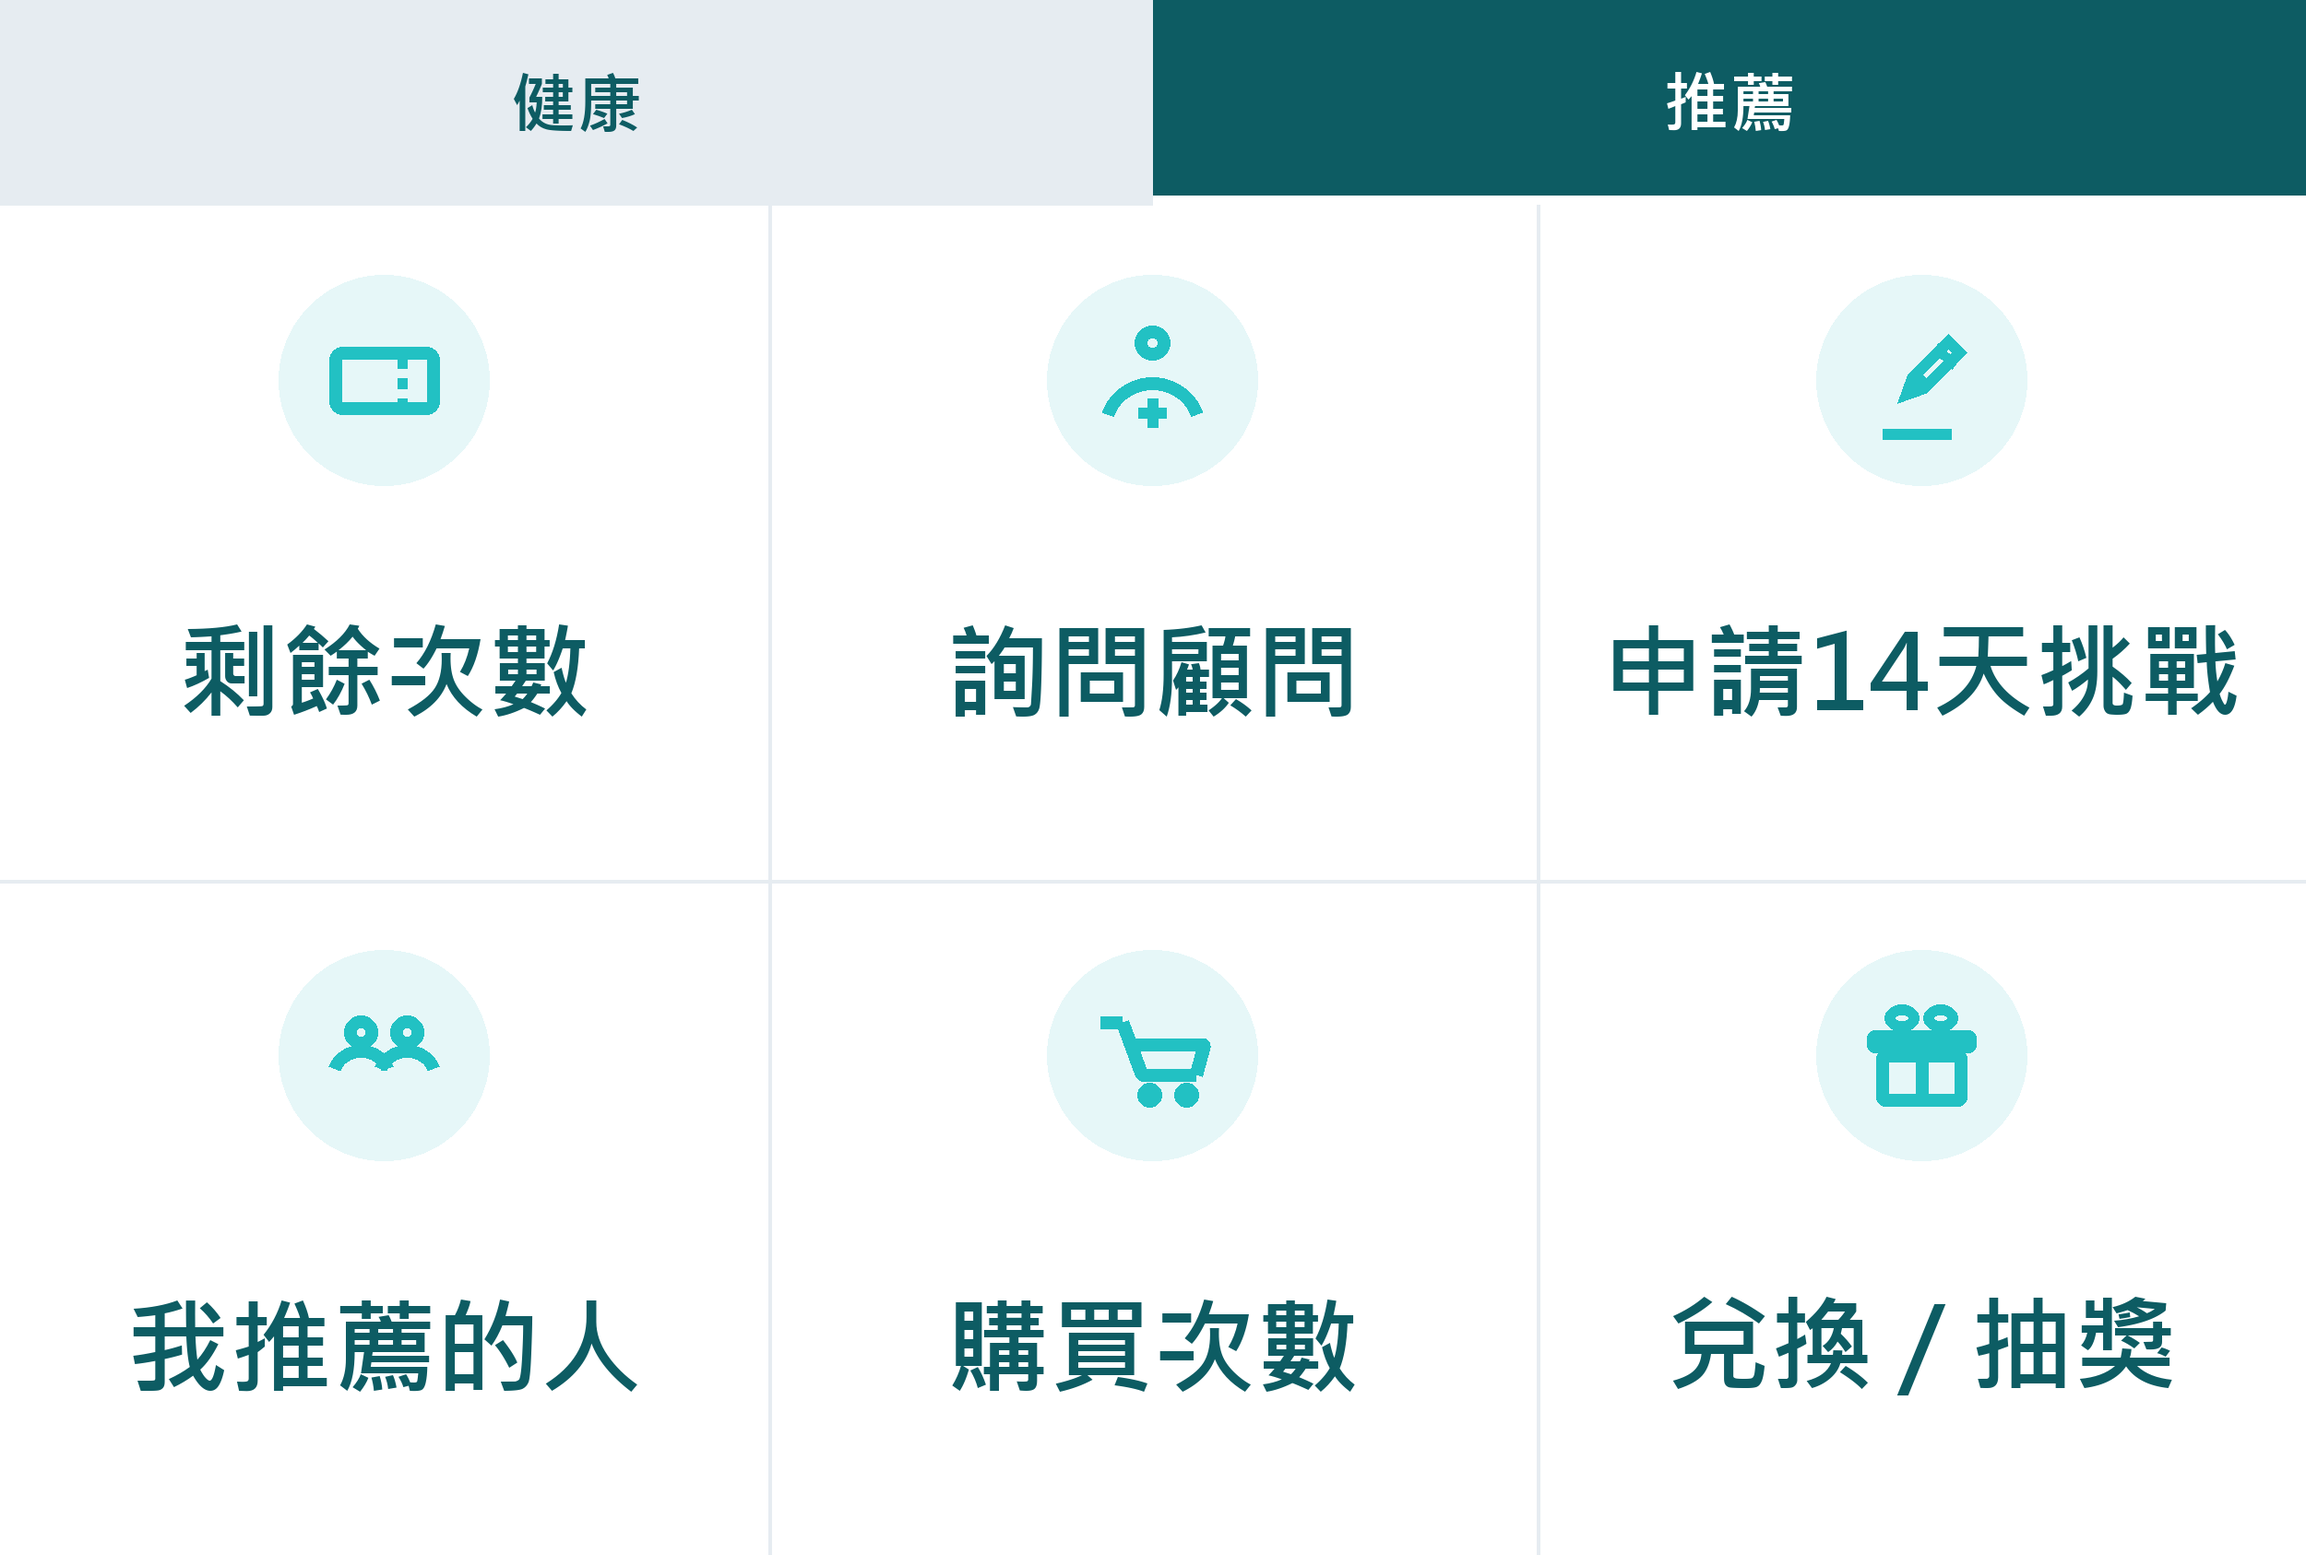
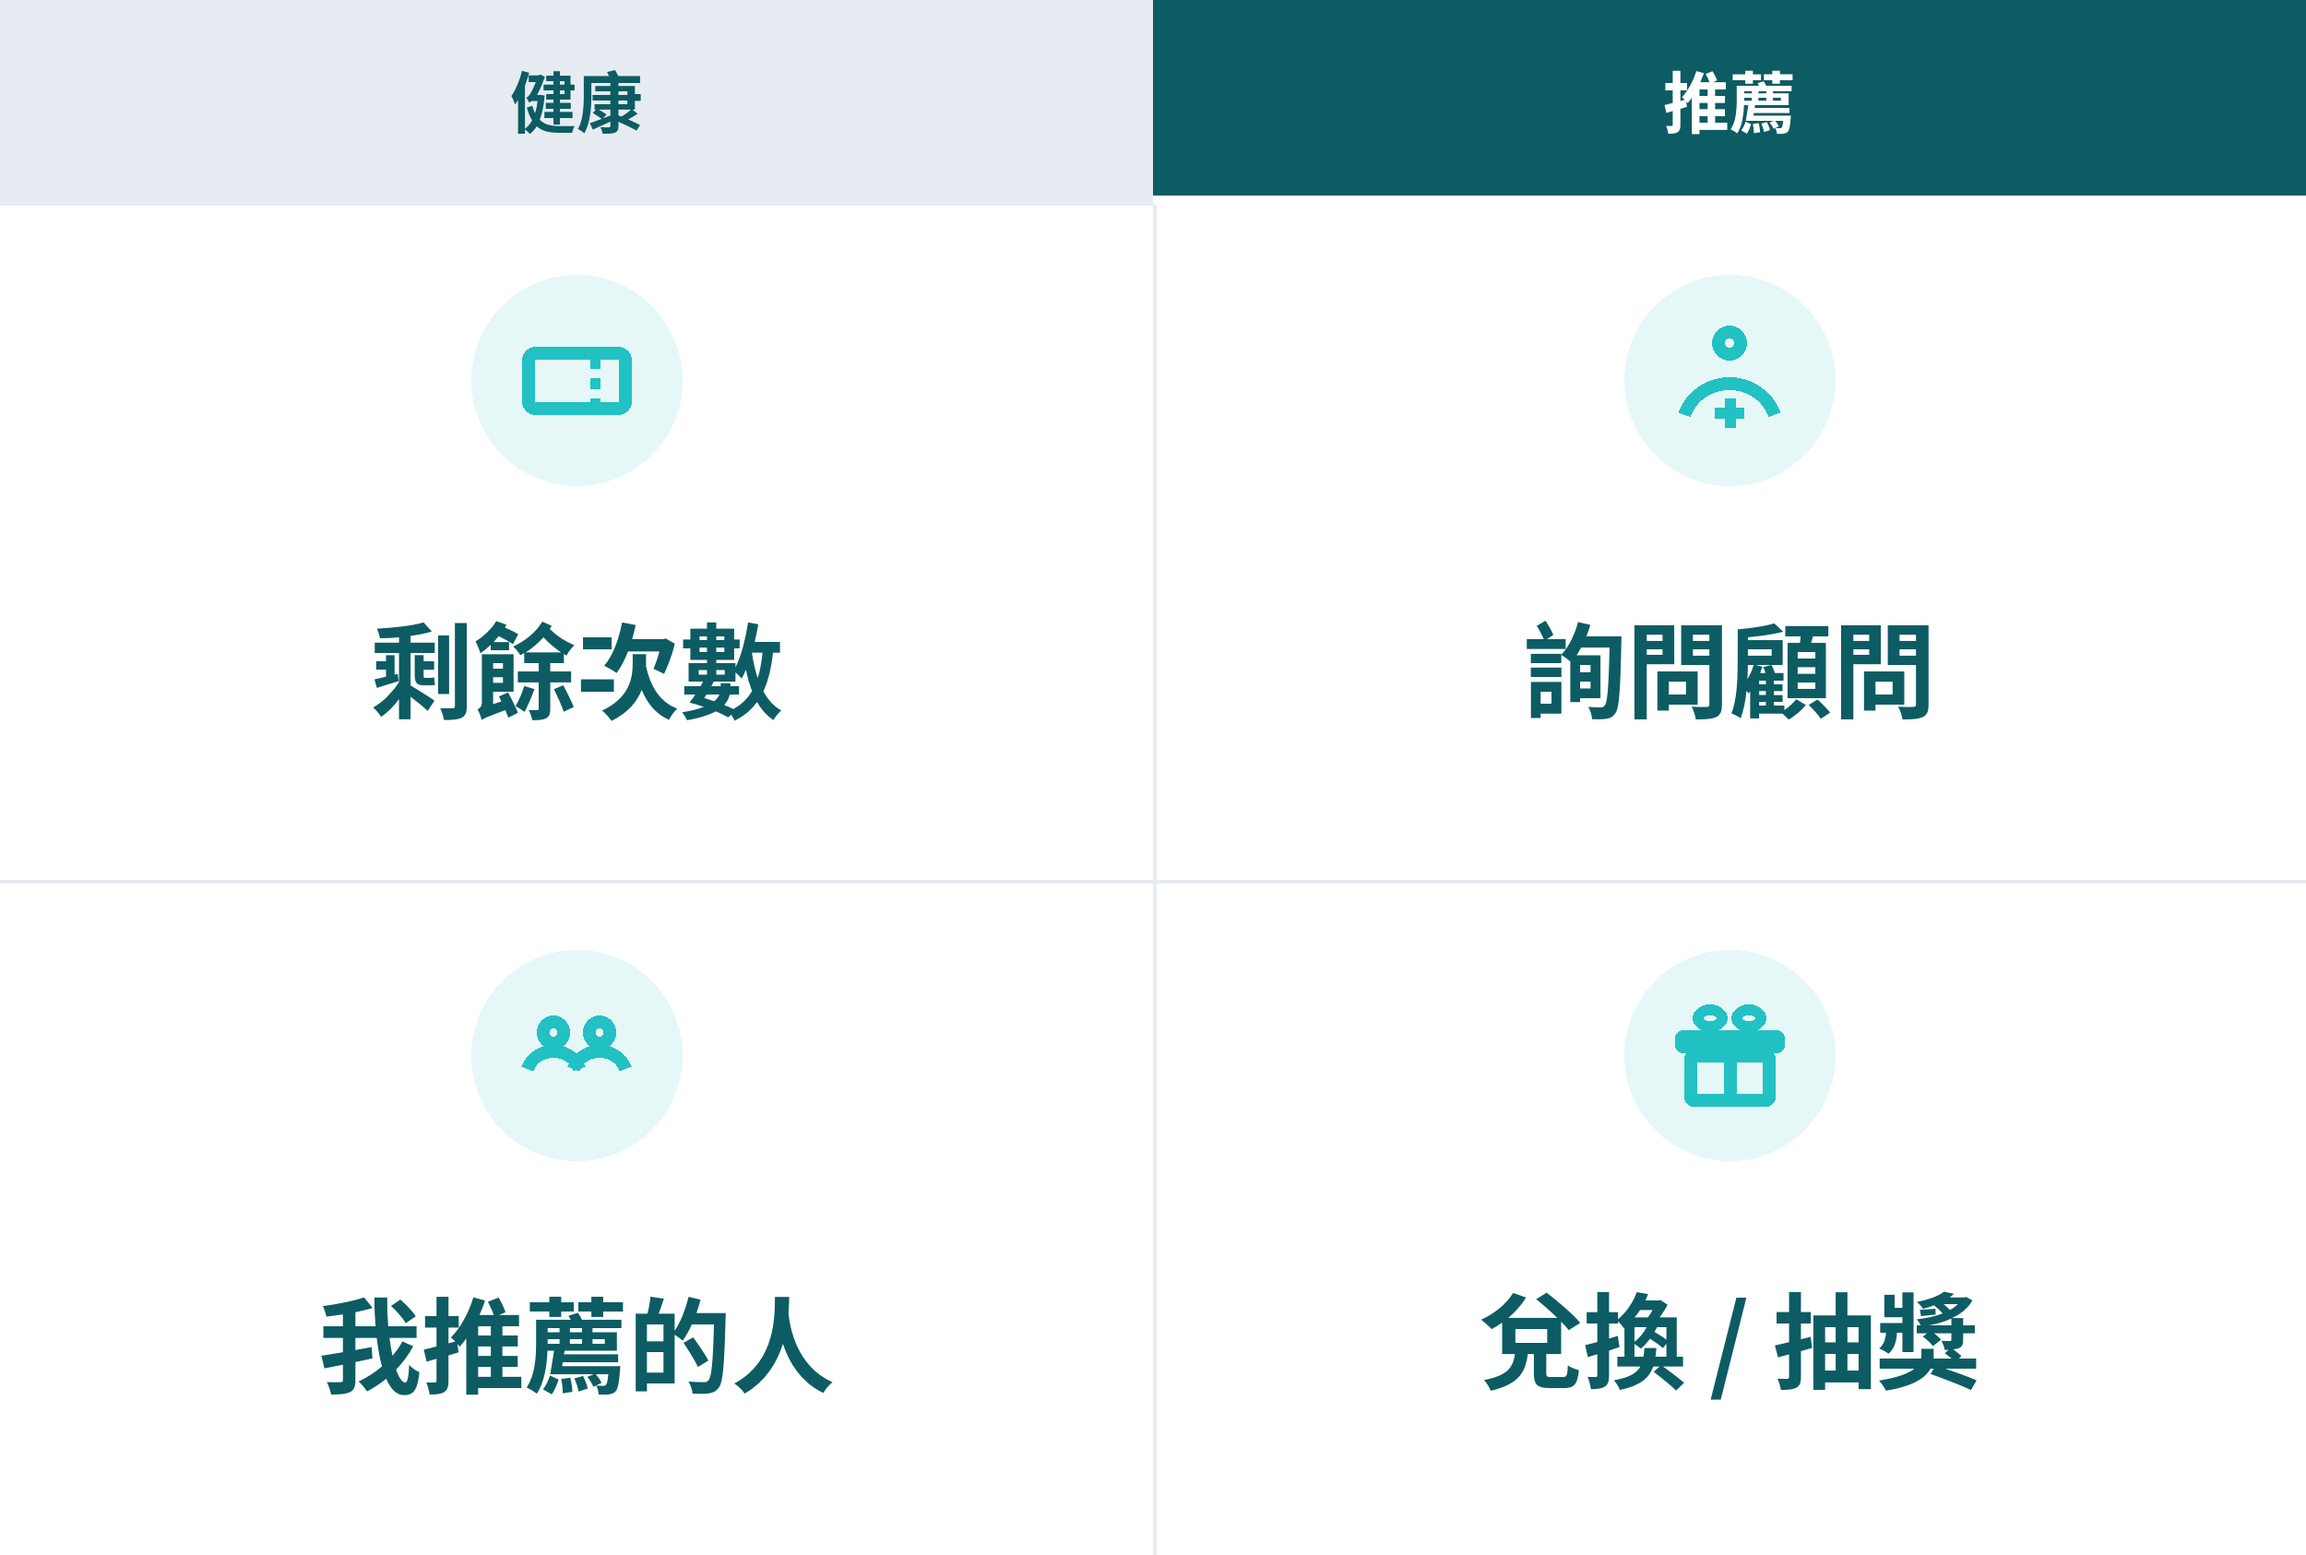
feat: 圖文選單改四格、每日打卡改每日挑戰、顧問與次數改成選單 (#33)
選單 6 格改 2x2 四格,底圖與點擊區塊同步更新。
每日挑戰:當天健康資訊附一題三選一,答對才給分;答案只存資料庫。
購買次數收進剩餘次數卡片,問健康 AI 收進詢問顧問。

diff --git a/supabase/functions/line-webhook/handlers.ts b/supabase/functions/line-webhook/handlers.ts
@@ -190,8 +190,11 @@ async function credits(u: LineUser): Promise<LineMessage> {
     rows: [{ label: "積點餘額", value: `${s?.points ?? 0} 點` }],
     note: `${cost} 點可以換 1 次檢測。`,
     buttons: [
-      { label: "用積點兌換", action: postbackAction("用積點兌換", "action=redeem_confirm&n=1"), primary: true },
-      { label: "開始檢測", action: uriAction("開始檢測", liffUrl("page-challenge")) },
+      { label: "用積點兌換", action: postbackAction("用積點兌換", "action=redeem_confirm&n=1"), tone: "deep" },
+      // 購買次數從圖文選單拿掉了,但「次數不夠」最自然的下一步就是買 ——
+      // 入口收在這裡,想買的人找得到,不想買的人也不會被推銷。
+      { label: "購買次數", action: postbackAction("購買次數", "action=buy_credits"), tone: "mid" },
+      { label: "開始檢測", action: uriAction("開始檢測", liffUrl("page-challenge")), tone: "soft" },
     ],
     altText: "剩餘看見健康次數",
   });
@@ -363,6 +366,105 @@ async function dailyCheckin(u: LineUser): Promise<LineMessage> {
       { label: "去做面舌診", action: uriAction("去做面舌診", liffUrl("page-challenge")), primary: true },
     ],
     altText: r.first_time ? "打卡完成" : "今天已打卡",
+  });
+}
+
+type DailyQuiz = {
+  id: string;
+  title: string;
+  quiz_question: string | null;
+  quiz_options: string[] | null;
+  quiz_answer: number | null;
+  quiz_explain: string | null;
+};
+
+function taipeiToday(): string {
+  return new Date().toLocaleDateString("sv-SE", { timeZone: "Asia/Taipei" });
+}
+
+async function todayQuiz(): Promise<DailyQuiz | null> {
+  return await selectOne<DailyQuiz>(
+    "sb_daily_tips",
+    `tip_date=eq.${taipeiToday()}&status=eq.approved`
+      + `&select=id,title,quiz_question,quiz_options,quiz_answer,quiz_explain`,
+  );
+}
+
+/**
+ * 每日挑戰:當天健康資訊的一題選擇題。答對才算完成,給分沿用打卡那支 RPC。
+ *
+ * 沒有題目就退回原本的打卡 —— 內容有人工審核,總有排不到或被退稿的日子,
+ * 那些天不能讓選單上的按鈕變成死的。
+ */
+async function dailyChallenge(u: LineUser): Promise<LineMessage> {
+  if (!u.sb_user_id) return NEED_BIND;
+
+  const tip = await todayQuiz();
+  if (!tip?.quiz_question || !tip.quiz_options?.length) return await dailyCheckin(u);
+
+  return infoCard({
+    title: "🎯 今日挑戰",
+    subtitle: tip.quiz_question,
+    note: `📌 出自今天的健康資訊:${tip.title}`,
+    buttons: tip.quiz_options.slice(0, 4).map((opt, i) => ({
+      label: `${"ABCD"[i]}. ${opt}`,
+      // 只帶「選了第幾個」。正確答案留在資料庫,不會出現在 postback 裡 ——
+      // postback 是使用者端送回來的,把答案寫進去等於公開答案。
+      action: postbackAction(`選 ${"ABCD"[i]}`, `action=challenge_answer&tip=${tip.id}&c=${i}`),
+      tone: "soft" as const,
+    })),
+    altText: "今日挑戰",
+  });
+}
+
+async function answerChallenge(u: LineUser, tipId: string, choice: number): Promise<LineMessage> {
+  if (!u.sb_user_id) return NEED_BIND;
+
+  const tip = await selectOne<DailyQuiz>(
+    "sb_daily_tips",
+    `id=eq.${tipId}&tip_date=eq.${taipeiToday()}&status=eq.approved`
+      + `&select=id,title,quiz_question,quiz_options,quiz_answer,quiz_explain`,
+  );
+  // 比對當天那一題。舊卡片翻回去按也沒用,tip_date 已經對不上今天。
+  if (!tip || tip.quiz_answer === null) {
+    return textMsg("這題已經過期了,回選單看今天的挑戰吧。");
+  }
+
+  if (choice !== tip.quiz_answer) {
+    return infoCard({
+      title: "再想一下 🤔",
+      subtitle: "這個不是最合適的答案。回今天的健康資訊看一下,再選一次。",
+      buttons: [
+        { label: "再試一次", action: postbackAction("再試一次", "action=daily_challenge"), tone: "deep" },
+        { label: "看今天的健康資訊", action: postbackAction("看健康資訊", `action=tip_detail&tip=${tip.id}`), tone: "mid" },
+      ],
+      altText: "答錯了",
+    });
+  }
+
+  // 答對才給分。rpc_daily_checkin 本身就是一天一次,答對兩次不會給兩次。
+  const r = await rpc<{
+    ok: boolean; message?: string; first_time: boolean;
+    points_added: number; balance: number; streak: number;
+  }>("rpc_daily_checkin", { p_user_id: u.sb_user_id });
+
+  if (!r?.ok) return textMsg(`⚠ ${r?.message ?? "計分失敗,請稍後再試。"}`);
+
+  const rows = [
+    { label: "連續挑戰", value: `${r.streak} 天`, accent: r.streak > 1 },
+    { label: "積點餘額", value: `${r.balance} 點`, accent: true },
+  ];
+  if (r.first_time) rows.unshift({ label: "今日挑戰", value: `+${r.points_added} 點`, accent: true });
+
+  return infoCard({
+    title: r.first_time ? "✅ 答對了" : "答對了,不過今天已經拿過分了",
+    subtitle: tip.quiz_explain ?? undefined,
+    rows,
+    note: `📌 ${tip.title}`,
+    buttons: [
+      { label: "去做面舌診", action: uriAction("去做面舌診", liffUrl("page-challenge")), tone: "deep" },
+    ],
+    altText: r.first_time ? "挑戰完成" : "今天已完成挑戰",
   });
 }
 
@@ -571,16 +673,32 @@ async function myPoints(u: LineUser): Promise<LineMessage> {
 
 /** 詢問北醫健康管理顧問 */
 function askConsultant(): LineMessage {
+  // 兩條路刻意並列:真人有專業與責任但要等,AI 秒回但不做判斷。
+  // 讓使用者自己選,比替他決定好 —— 急著問跟需要專業判斷是兩種需求。
   return infoCard({
-    title: "👩⚕ 詢問健康管理顧問",
-    subtitle: CONSULTANT_URL
-      ? "北醫背景的健康管理顧問,可以聊體質調理、報告怎麼看、要不要進一步檢查。"
-      : "顧問的聯絡方式還在設定中,稍後再試。",
-    note: CONSULTANT_URL ? "顧問回覆需要一點時間,急症請直接就醫或撥 119。" : undefined,
-    buttons: CONSULTANT_URL
-      ? [{ label: "加顧問 LINE", action: uriAction("加顧問 LINE", CONSULTANT_URL), primary: true }]
-      : [],
-    altText: "詢問健康管理顧問",
+    title: "👩⚕ 想問誰?",
+    subtitle: "真人顧問回覆需要一點時間;健康 AI 可以馬上聊。",
+    rows: [
+      { label: "北醫健康管理師", value: "專業判斷、報告解讀" },
+      { label: "健康 AI", value: "隨時回覆、體質與日常調理" },
+    ],
+    note: "兩者都不做醫療診斷。急症請直接就醫或撥 119。",
+    buttons: [
+      ...(CONSULTANT_URL
+        ? [{
+          label: "問北醫健康管理師",
+          action: uriAction("問北醫健康管理師", CONSULTANT_URL),
+          tone: "deep" as const,
+        }]
+        : []),
+      {
+        label: "問健康 AI",
+        // message action:送出去就會走進 AI 對話,不必再開一頁。
+        action: { type: "message", label: "問健康 AI", text: "我想問健康問題" },
+        tone: "mid" as const,
+      },
+    ],
+    altText: "想問誰",
   });
 }
 
@@ -840,6 +958,11 @@ export async function handlePostback(
       return await myPoints(u);
     case "daily_checkin":
       return await dailyCheckin(u);
+    case "daily_challenge":
+      return await dailyChallenge(u);
+    case "challenge_answer":
+      return await answerChallenge(
+        u, params.get("tip") ?? "", Number(params.get("c") ?? -1));
     case "tip_detail":
       return await readTip(u, params.get("tip") ?? "");
     case "tip_preview_detail":

diff --git a/supabase/functions/tip-plan/index.ts b/supabase/functions/tip-plan/index.ts
@@ -24,6 +24,10 @@ type TipDraft = {
   detail_points: [string, string, string];
   source_urls: string[];
   category: string;
+  quiz_question: string;
+  quiz_options: [string, string, string];
+  quiz_answer: number;
+  quiz_explain: string;
 };
 
 function taipeiDate(offsetDays = 0): Date {
@@ -92,7 +96,10 @@ function schema(dates: string[]) {
         type: "array", minItems: dates.length, maxItems: dates.length,
         items: {
           type: "object", additionalProperties: false,
-          required: ["date", "title", "summary", "body", "detail_points", "source_urls", "category"],
+          required: [
+            "date", "title", "summary", "body", "detail_points", "source_urls", "category",
+            "quiz_question", "quiz_options", "quiz_answer", "quiz_explain",
+          ],
           properties: {
             date: { type: "string", enum: dates },
             title: { type: "string", minLength: 6, maxLength: 36 },
@@ -101,6 +108,15 @@ function schema(dates: string[]) {
             detail_points: { type: "array", minItems: 3, maxItems: 3, items: { type: "string", minLength: 8, maxLength: 90 } },
             source_urls: { type: "array", minItems: 1, maxItems: 3, items: { type: "string" } },
             category: { type: "string", enum: ["飲食", "運動", "睡眠", "壓力", "預防保健", "季節養生"] },
+            // 每日挑戰的題目。固定 3 個選項:LINE 卡片上 3 顆按鈕剛好,
+            // 4 顆會把卡片撐得很長,2 顆猜對的機率太高。
+            quiz_question: { type: "string", minLength: 10, maxLength: 60 },
+            quiz_options: {
+              type: "array", minItems: 3, maxItems: 3,
+              items: { type: "string", minLength: 2, maxLength: 24 },
+            },
+            quiz_answer: { type: "integer", enum: [0, 1, 2] },
+            quiz_explain: { type: "string", minLength: 10, maxLength: 90 },
           },
         },
       },
@@ -210,6 +226,8 @@ Deno.serve(async (req) => {
       const values = {
         tip_date: tip.date, title: tip.title, summary: tip.summary, body: tip.body,
         detail_points: tip.detail_points, source_urls: safeSources,
+        quiz_question: tip.quiz_question, quiz_options: tip.quiz_options,
+        quiz_answer: tip.quiz_answer, quiz_explain: tip.quiz_explain,
         risk_flags: flags, status: "draft", active: true,
         generated_batch_id: runId || null, image_url: assetUrl("bg.png"),
         approved_at: null, approved_by: null, rejected_at: null, rejected_by: null, review_note: null,

diff --git a/scripts/line/make-richmenu-images.py b/scripts/line/make-richmenu-images.py
@@ -23,10 +23,10 @@ OUT = ROOT / "img"
 
 W, H = 2500, 1686
 TAB_H = 222
-COLS, ROWS = 3, 2
+COLS, ROWS = 2, 2
 CELL_H = 732
-COL_X = [0, 833, 1666]
-COL_W = [833, 833, 834]
+COL_X = [0, 1250]
+COL_W = [1250, 1250]
 ROW_Y = [TAB_H, TAB_H + CELL_H]
 
 # 品牌指南「看·健」的六個色 + 兩個補色
@@ -73,10 +73,8 @@ TABS = [
         "cells": [
             ("面舌診檢測", "scan"),
             ("我的健康分數", "chart"),
-            ("我的積分",   "coin"),
-            ("每日打卡",   "check"),
+            ("每日挑戰",   "check"),
             ("分享推薦",   "share"),
-            ("問健康 AI",  "chat"),
         ],
     },
     {
@@ -86,9 +84,7 @@ TABS = [
         "cells": [
             ("剩餘次數",   "ticket"),
             ("詢問顧問",   "doctor"),
-            ("申請14天挑戰", "pen"),
             ("我推薦的人", "people"),
-            ("購買次數",   "cart"),
             ("兌換 / 抽獎", "gift"),
         ],
     },
